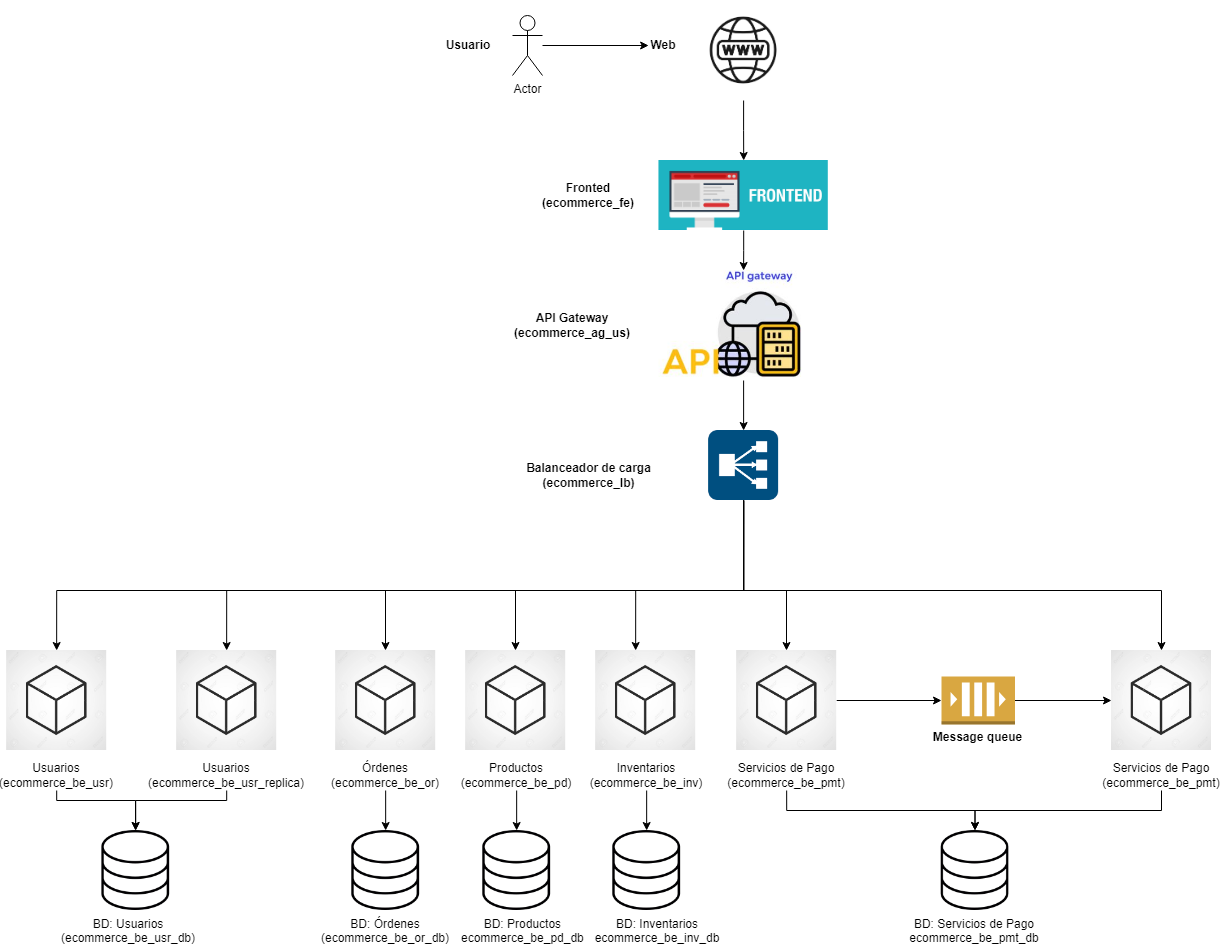
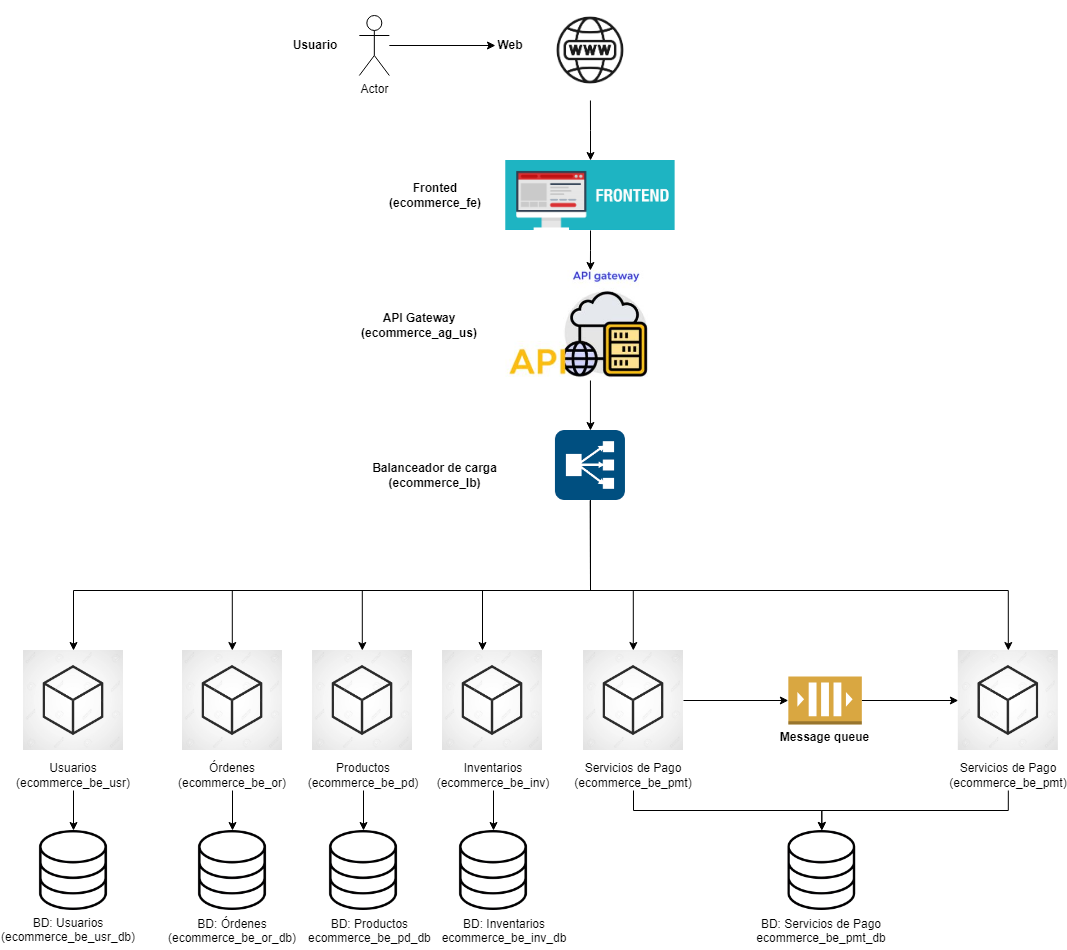
Update
Update

diff --git a/project/delivery_2/e-commerce/README.md b/project/delivery_2/e-commerce/README.md
@@ -18,15 +18,13 @@ El flujo completo desde el cliente hasta el procesamiento de pagos se maneja de 
 
 ## 2. Arquitectura del sistema 
 
-A continuación, se presenta un diagrama de arquitectura de componentes y conectores. En la que se incluyo una replica del micro-servicios de usuarios, en relación a la arquitectura, que se expuso en la primera entrega del proyecto. 
-
-La replicación del microservicio de usuarios para la arquitectura del e-commerce se hizo con el fin de garantizar la escalabilidad, permitiendo atender múltiples solicitudes concurrentes; alta disponibilidad, asegurando continuidad del servicio ante fallos; y mejor rendimiento, reduciendo la latencia en operaciones críticas como el inicio de sesión. Además, permite realizar mantenimientos sin interrupciones y adaptarse dinámicamente a la carga, mejorando la experiencia del usuario y la resiliencia del sistema. A continuación, se aprecia una imagen en donde se visualiza la arquitectura del sistema. 
+A continuación, se presenta un diagrama de arquitectura de componentes y conectores, que se expuso en la primera entrega del proyecto. 
 
 ![Texto alternativo de la imagen](imagenes/Arquitectura.png)
 
 ## 3. Flujo elegido de la arquitectura del sistema 
 
-Para realizar el proceso de verificación de los atributos de seguridad y escalabilidad, se eligió el flujo de la arquitectura que va desde el API Gateway —encargado de recibir las solicitudes del frontend— hasta el balanceador de carga, que distribuye las peticiones entre los microservicios. En el contexto de este proyecto, el proceso de verificación se centrará únicamente en el microservicio de usuarios y su respectiva réplica. Consecutivamente, se presenta una imagen con la extracción, de la parte de la arquitectura a analizar: 
+Para realizar el proceso de verificación de los atributos de seguridad y escalabilidad, se eligió el flujo de la arquitectura que va desde el API Gateway —encargado de recibir las solicitudes del frontend— hasta el balanceador de carga, que distribuye las peticiones entre los microservicios. En el contexto de este proyecto, el proceso de verificación se centrará únicamente en el microservicio de usuarios. Consecutivamente, se presenta una imagen con la extracción, de la parte de la arquitectura a analizar: 
 
 
 ![Texto alternativo de la imagen](imagenes/FlujoSimplificado.png)
@@ -85,11 +83,16 @@ Con base en la simulación, corrida se aprecia, que al exponer al sistema a una 
 
 ![Texto alternativo de la imagen](imagenes/Sin_rate_limit.png)
 
+Adicionalmente, en la siguiente gráfica es posible apreciar los fallos por componente reportados por la simulación, en la que se aprecia, que la mayoría de las fallas se dieron el el microservicio de usuario, seguido por las fallas que se reportaron en el balanceador de carga. 
+
+![Texto alternativo de la imagen](imagenes/FallosComponenteI1.png)
+
+
 ## 5. Iteración 2
 
 En esta segunda iteración se introduce una táctica arquitectónica orientada a **mitigar vulnerabilidades de seguridad**, específicamente aquellas asociadas con ataques de **Denegación de Servicio (DoS)** o **Denegación de Servicio Distribuido (DDoS)**. 
 
-Durante la **Iteración 1**, se evidenció que la arquitectura inicial no implementaba ningún tipo de **control de frecuencia de solicitudes**, lo que la dejaba completamente expuesta a este tipo de amenazas. Como respuesta, se decide implementar una **táctica de seguridad conocida como _Rate Limiting_**, que permite regular el tráfico entrante hacia el sistema.
+Durante la **Iteración 1**, se evidenció que la arquitectura inicial no implementaba ningún tipo de **control de frecuencia de solicitudes**, lo que la dejaba completamente expuesta a este tipo de amenazas. Como respuesta, se decidió implementar una **táctica de seguridad conocida como _Rate Limiting_**, que permite regular el tráfico entrante hacia el sistema.
 
 ### 5.1 ¿Qué es *Rate Limiting* y por qué es una táctica arquitectónica?
 
@@ -105,14 +108,17 @@ En la simulación se lanzaron 1000 solicitudes concurrentes,  y se obtuvieron lo
 
 ![Texto alternativo de la imagen](imagenes/TransaccionesRateLimit.png)
 
-En la gráfica de "Transacciones con Rate Limiting (Iteración 2)", se aprecia que al aplicar la táctica arquitectónica de Rate Limiting, se aprecia que 30 solicitudes, fueron exitosas y el resto debe esperar o será descartado si no hay capacidad. De esat forma, se evita que el sistema colapse en caso de que reciba un gran número de peticiones concurrentes. 
+En la gráfica de "Transacciones con Rate Limiting (Iteración 2)", se aprecia que al aplicar la táctica arquitectónica de Rate Limiting, se aprecia que 30 solicitudes, fueron exitosas y el resto debe esperar o será descartado si no hay capacidad. De esta forma, se evita que el sistema colapse en caso de que reciba un gran número de peticiones concurrentes. 
 
+Adicionalmente, se presenta la gráfica "Fallos por componente (con Rate Limiting)", en la que se visualiza, que el número de fallos disminuye en relación a la gráfica "Fallos por componente (Iteración 1)", y la mayoría de las fallas se dan en el micro-servicio de usuarios,seguido del balanceador de carga.  
+
+![Texto alternativo de la imagen](imagenes/FallosComponenteRL.png)
 
 ### 5.2 Flujo Arquitectónico Simulado
 
 1. Una solicitud ingresa al sistema por el **frontend**.
 2. Llega al **API Gateway**, donde se aplica la táctica de **Rate Limiting**.
-3. Si la solicitud **se aprueba**, se enruta hacia los **microservicios** y, finalmente, hacia una **base de datos**.
+3. Si la solicitud **se aprueba**, se enruta hacia el **microservicio de usuarios** y, finalmente, hacia una **base de datos**.
 4. Si **no se aprueba** (por sobrepasar el límite), la solicitud se **rechaza inmediatamente**.
 
 
